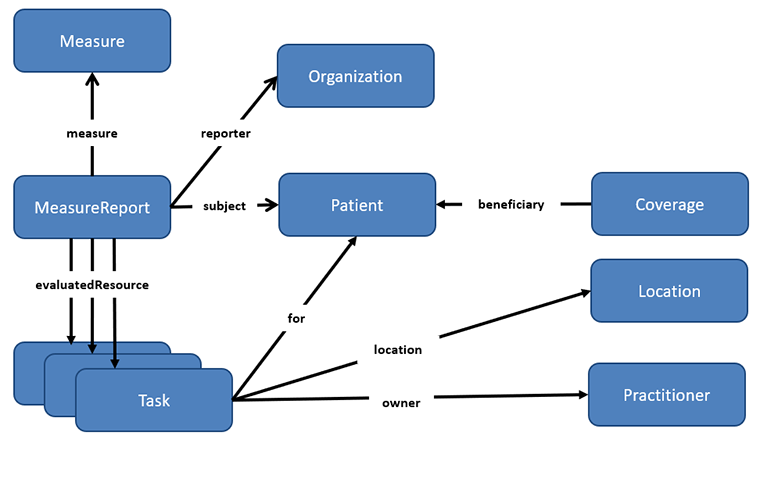
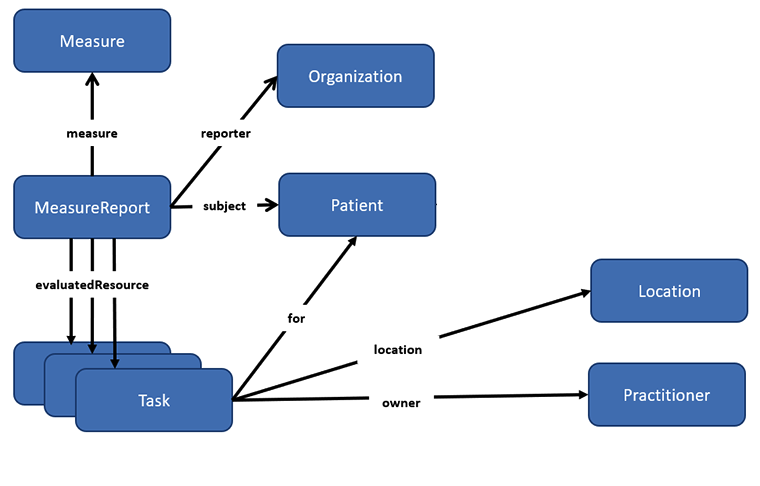
FHIR-41299 - Removed Coverage from MRP diagrams and added covergae to data requirements for 130 and 124 examples

Changed region(s): [[0.575, 0.3395, 0.9987, 0.4938]]

diff --git a/input/includes/col-requirements-example.md b/input/includes/col-requirements-example.md
@@ -306,6 +306,15 @@ HTTP/1.1 200 OK
   ],
   "dataRequirement": [
     {
+      "type": "Coverage",
+      "profile": [ "http://hl7.org/fhir/StructureDefinition/Coverage" ],
+      "mustSupport": [ "type", "period" ],
+      "codeFilter": [ {
+        "path": "type",
+        "valueSet": "http://cts.nlm.nih.gov/fhir/ValueSet/2.16.840.1.114222.4.11.3591"
+      } ]
+    },
+    {
       "type": "Procedure",
       "profile": [
         "http://hl7.org/fhir/StructureDefinition/Procedure"
